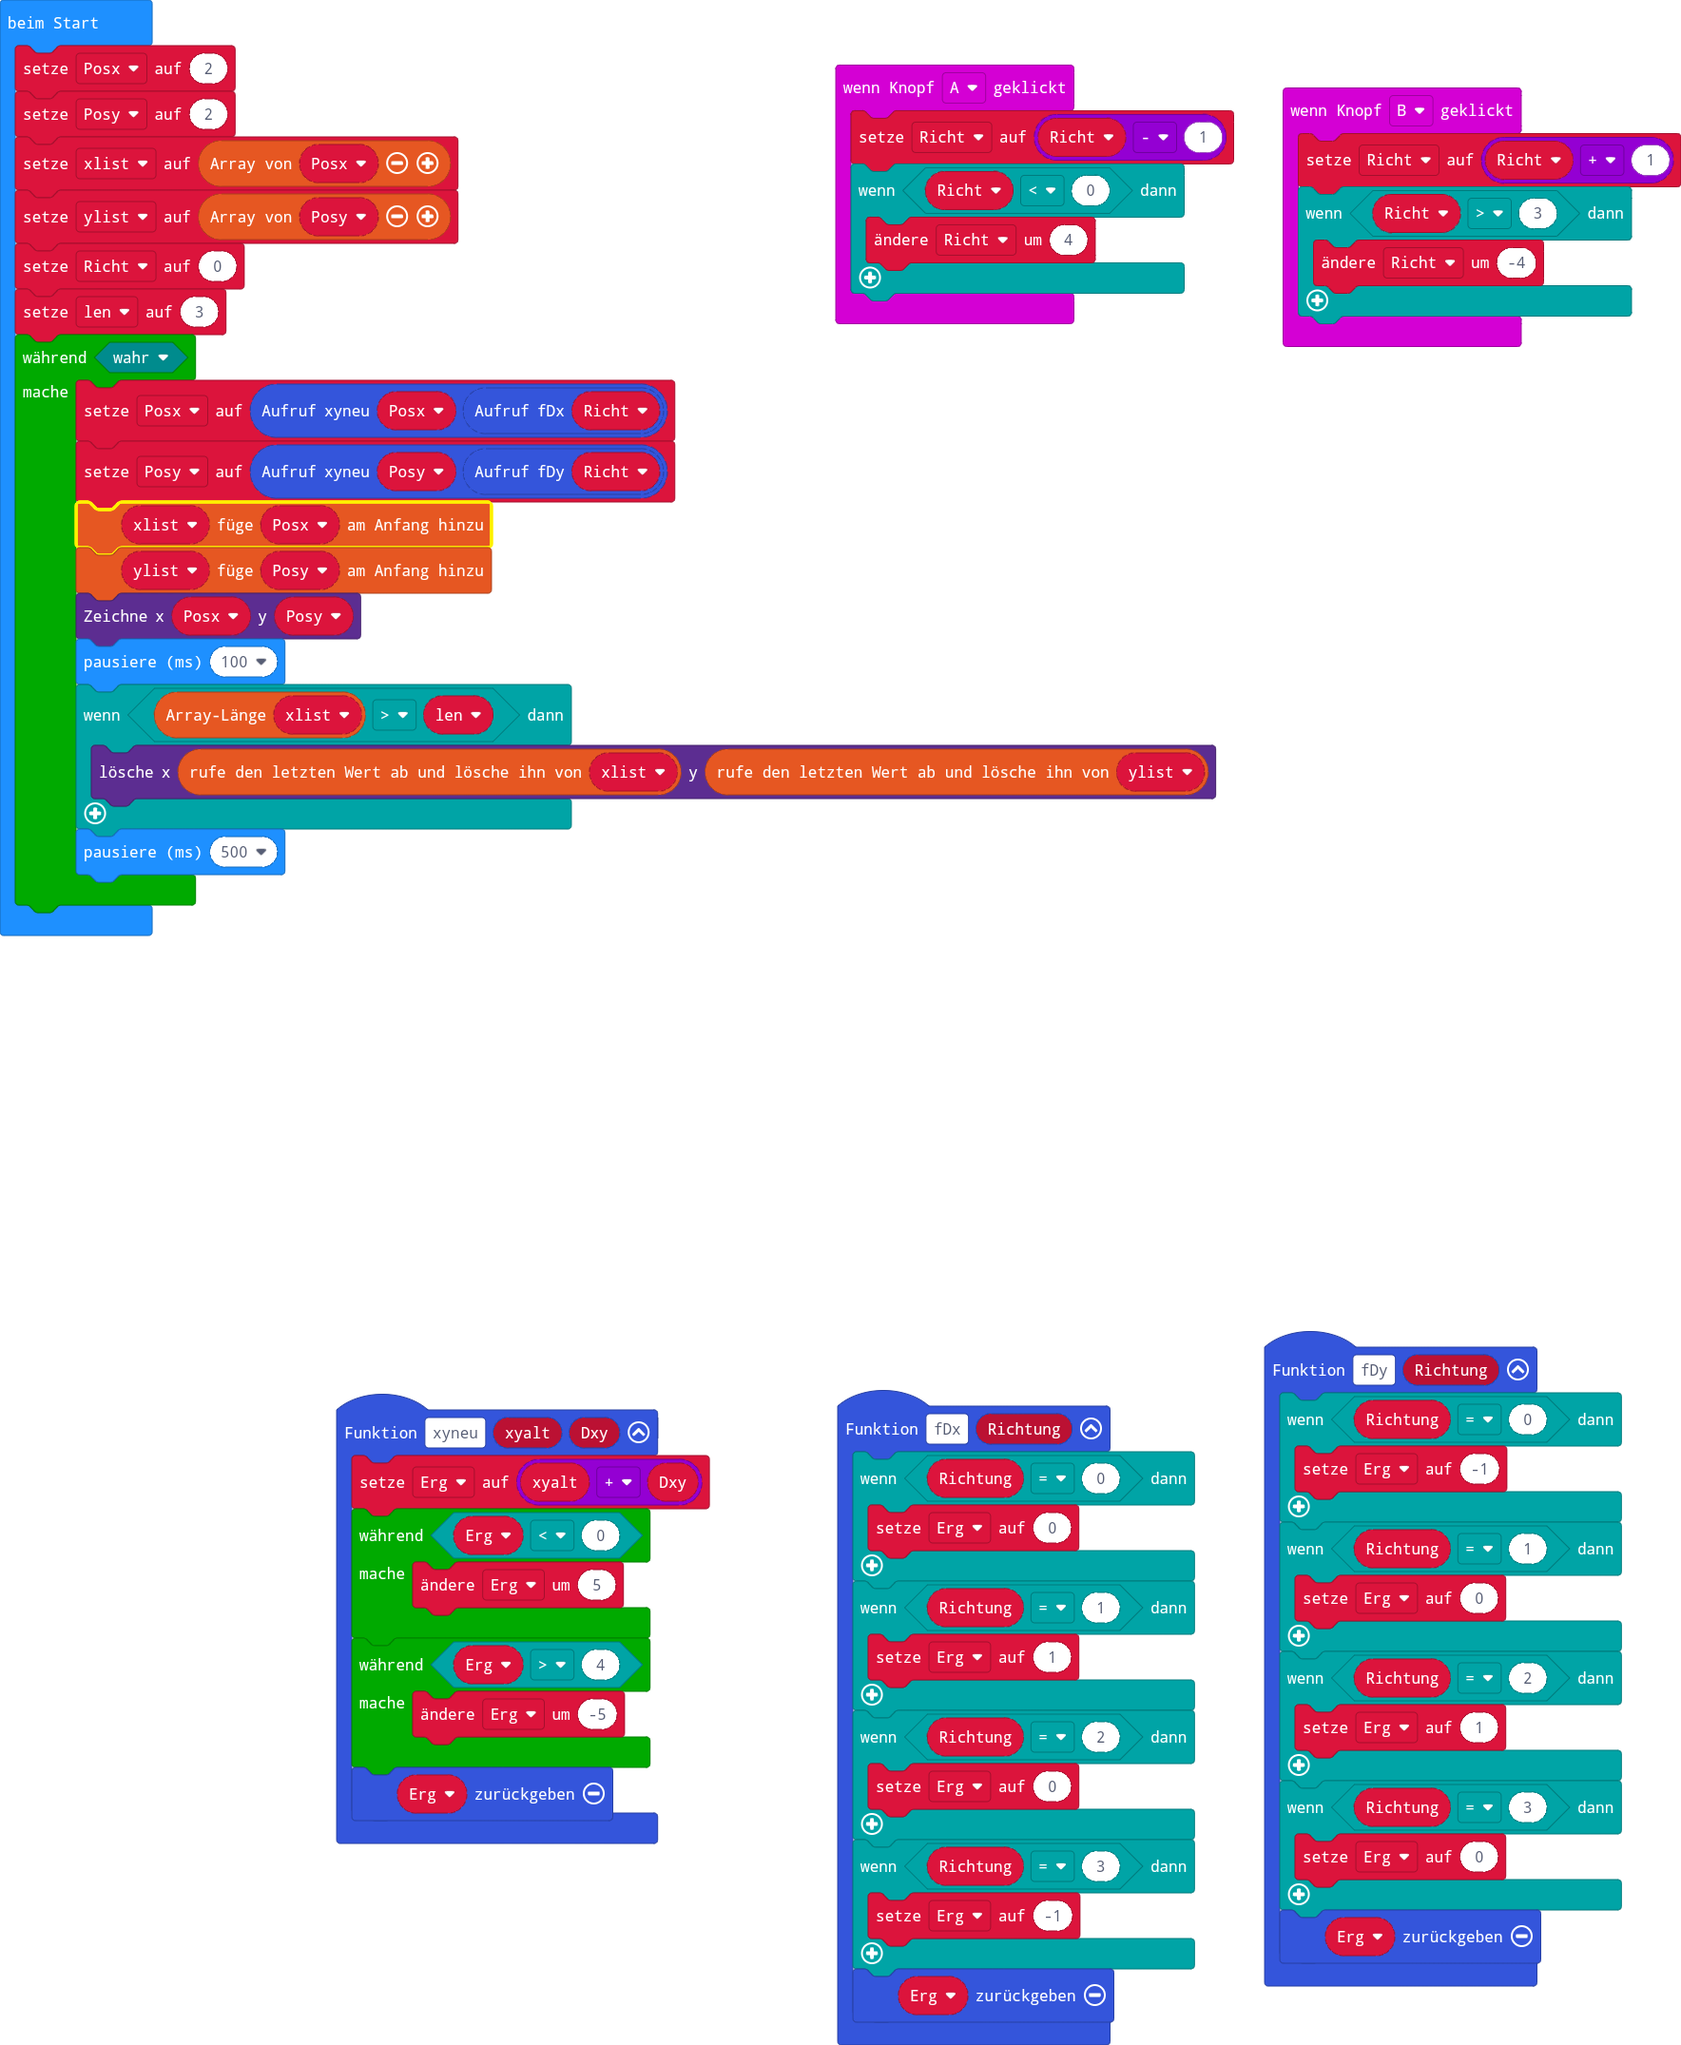
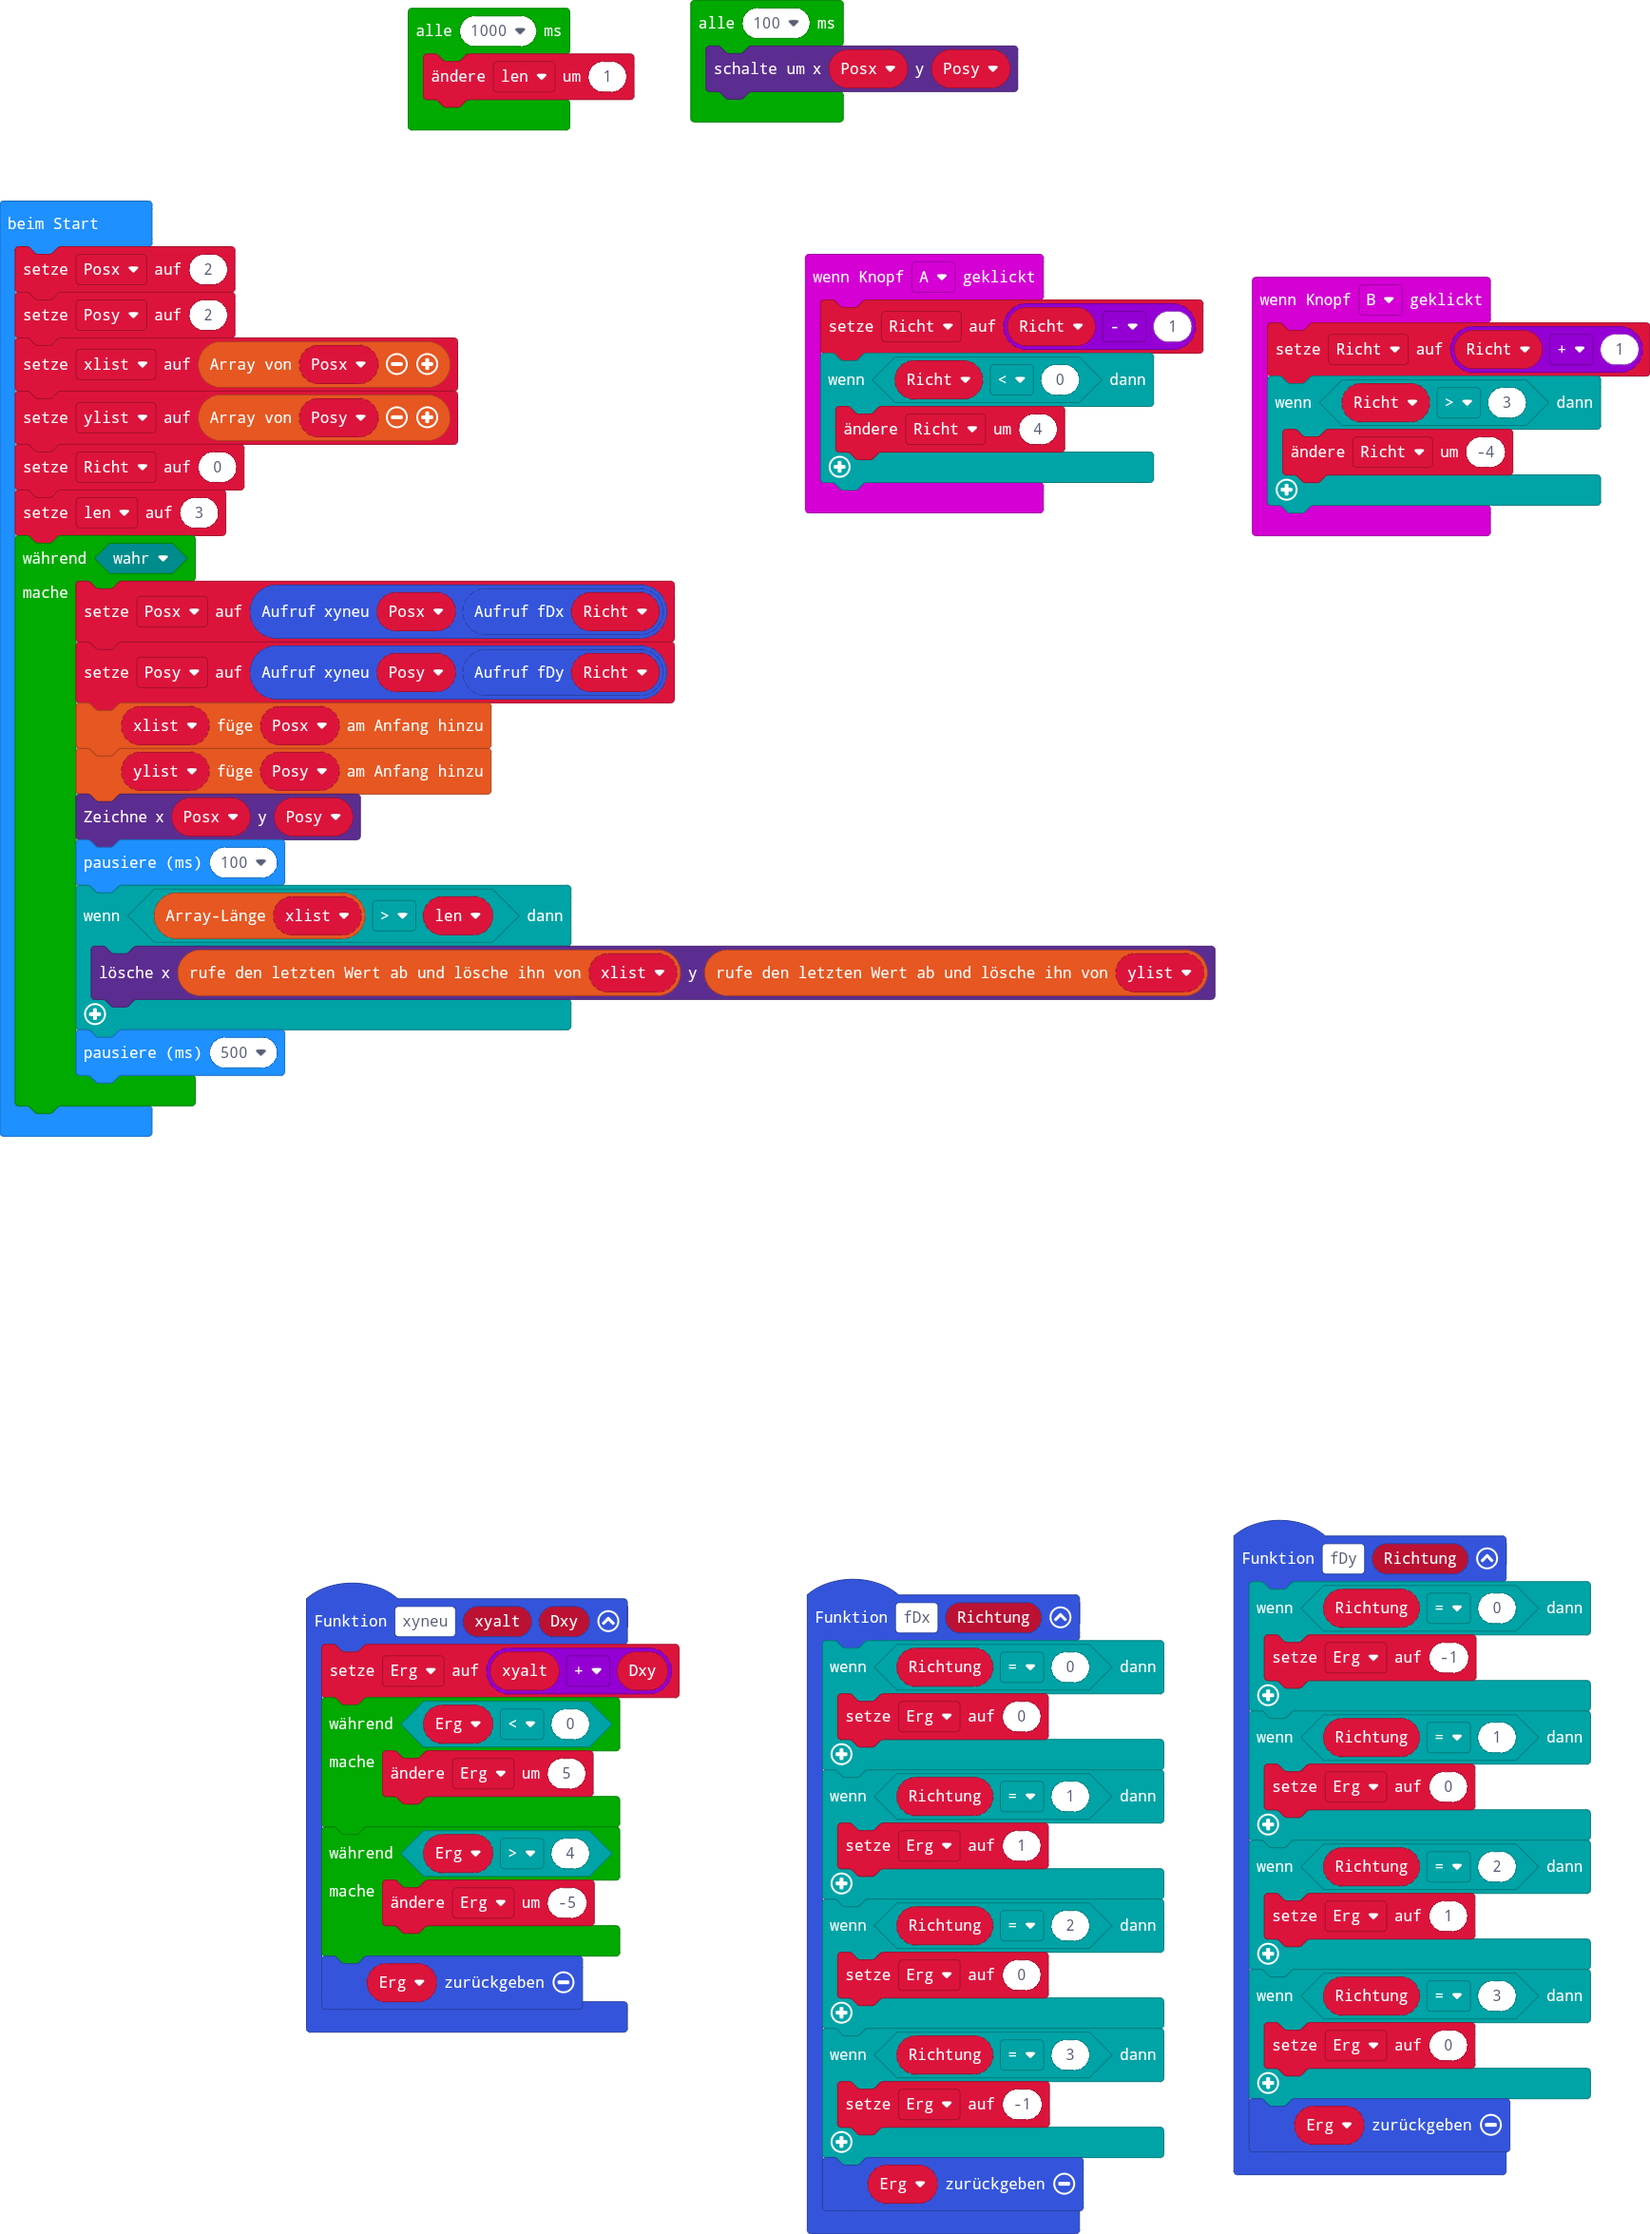
verlängerung der schlange mit der Zeit, blinken des Kopfes

diff --git a/main.ts b/main.ts
@@ -70,3 +70,9 @@ while (true) {
     }
     basic.pause(500)
 }
+loops.everyInterval(1000, function () {
+    len += 1
+})
+loops.everyInterval(100, function () {
+    led.toggle(Posx, Posy)
+})
